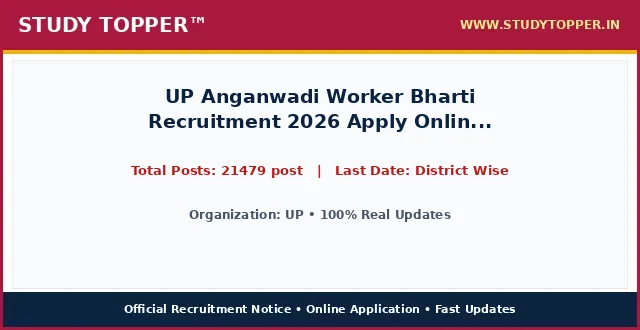
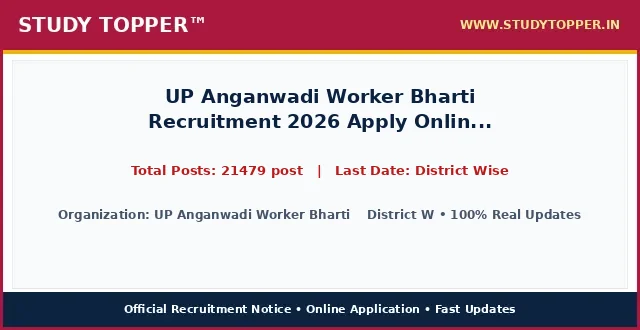
chore(lifecycle): daily auto-sort vacancies and update active dates

Changed region(s): [[0.0938, 0.6364, 0.9062, 0.6667]]

diff --git a/pages/up-anganwadi-worker.html b/pages/up-anganwadi-worker.html
@@ -987,12 +987,12 @@ ul.wp-block-latest-posts a:hover {
 <main class="site-main" id="main">
 <div class="gb-container gb-container-b39c368c">
 <h1 class="gb-headline gb-headline-e52a0102 gb-headline-text" style="font-size: 22px; font-weight: 700; color: #0000cd; text-align: left; margin: 8px 0 4px 0; line-height: 1.3; width: 100%; font-family: '-apple-system, BlinkMacSystemFont, 'Segoe UI', Roboto, 'Helvetica Neue', Arial, sans-serif', Times, serif, Hind, sans-serif;">UP Anganwadi Worker Bharti Recruitment 2026 Apply Online District Wise Vacancy Details Bareilly, Sonbhadra, Etawah, Maharajganj, Muzaffarnagar Chitrakoot, Jhansi and other Various District</h1>
-<div class="gb-container gb-container-659bd175"><p style="color: #cd0808; font-weight: 700; font-size: 15px; margin: 2px 0 7px 0; text-align: left; font-family: '-apple-system, BlinkMacSystemFont, 'Segoe UI', Roboto, 'Helvetica Neue', Arial, sans-serif', Times, serif, Hind, sans-serif;">Post Date: August 22, 2026 11:56 AM</p></div>
-<p class="gb-headline gb-headline-550ae316 short_Details gb-headline-text" style="width: 100%; max-width: 100%; font-size: 16.8px; line-height: 1.55; color: #000000; text-align: justify; text-justify: inter-word; margin: 8px 0 14px 0; display: block; font-family: '-apple-system, BlinkMacSystemFont, 'Segoe UI', Roboto, 'Helvetica Neue', Arial, sans-serif', Times, serif, Hind, sans-serif;"><strong style="color: #0000cd;">UP</strong> has officially published the recruitment notice <strong style="color: #cd0808;">UP Anganwadi Worker Bharti Recruitment 2026 Apply Online District Wise Vacancy Details Bareilly, Sonbhadra, Etawah, Maharajganj, Muzaffarnagar Chitrakoot, Jhansi and other Various District</strong> under notification number Official Advt 2026. Online applications are invited for 21479 post across multiple departments and cadre positions. Interested candidates possessing the requisite educational qualifications and falling between 18 Years to 40 Years can complete their online registration before the application deadline of District Wise. Applicants should read the eligibility criteria, category reservation rules, and exam scheme thoroughly before submitting applications.</p>
+<div class="gb-container gb-container-659bd175"><p style="color: #cd0808; font-weight: 700; font-size: 15px; margin: 2px 0 7px 0; text-align: left; font-family: '-apple-system, BlinkMacSystemFont, 'Segoe UI', Roboto, 'Helvetica Neue', Arial, sans-serif', Times, serif, Hind, sans-serif;">Post Date: August 22, 2026 01:09 PM</p></div>
+<p class="gb-headline gb-headline-550ae316 short_Details gb-headline-text" style="width: 100%; max-width: 100%; font-size: 16.8px; line-height: 1.55; color: #000000; text-align: justify; text-justify: inter-word; margin: 8px 0 14px 0; display: block; font-family: '-apple-system, BlinkMacSystemFont, 'Segoe UI', Roboto, 'Helvetica Neue', Arial, sans-serif', Times, serif, Hind, sans-serif;"><strong style="color: #0000cd;">UP Anganwadi Worker Bharti    District Wise  Details Bareilly, Sonbhadra, Etawah, Maharajganj, Muzaffarnagar Chitrakoot, Jhansi and other Various District</strong> has officially published the recruitment notice <strong style="color: #cd0808;">UP Anganwadi Worker Bharti Recruitment 2026 Apply Online District Wise Vacancy Details Bareilly, Sonbhadra, Etawah, Maharajganj, Muzaffarnagar Chitrakoot, Jhansi and other Various District</strong> under notification number Official Notification 2026. Online applications are invited for 21479 post across multiple departments and cadre positions. Interested candidates possessing the requisite educational qualifications and falling between 18 Years to 40 Years can complete their online registration before the application deadline of District Wise. Applicants should read the eligibility criteria, category reservation rules, and exam scheme thoroughly before submitting applications.</p>
 <div class="gb-container gb-container-9849916c"><div class="social-buttons-compact" style="display: flex; justify-content: flex-start; align-items: center; gap: 10px; margin: 10px 0 16px 0; width: 100%;"><a class="social-btn-compact wa" href="https://whatsapp.com/channel/0029Va9xyz" rel="noopener" style="background-color: #00d084; color: #ffffff; padding: 10px 18px; border-radius: 4px; text-decoration: none; font-weight: bold; font-size: 15.5px; display: inline-flex; align-items: center; justify-content: center; height: auto;" target="_blank">WhatsApp</a><a class="social-btn-compact tg" href="https://t.me/studytopperofficial" rel="noopener" style="background-color: #0088cc; color: #ffffff; padding: 10px 18px; border-radius: 4px; text-decoration: none; font-weight: bold; font-size: 15.5px; display: inline-flex; align-items: center; justify-content: center; height: auto;" target="_blank">Telegram</a></div></div>
 <div class="gb-container gb-container-f58e6ca1" style="border: 2px solid #5b032f; border-radius: 4px; overflow: hidden; margin: 15px 0 20px 0; background-color: #ffffff; width: 100%; box-sizing: border-box;">
 <h2 class="gb-headline gb-headline-2ca5a791 gb-headline-text" style="font-size: 16px; font-weight: 700; text-align: center; color: #ef0303; line-height: 1.3; padding: 6px 4px; margin: 0; background: #ffffff; font-family: '-apple-system, BlinkMacSystemFont, 'Segoe UI', Roboto, 'Helvetica Neue', Arial, sans-serif', Times, serif, Hind, sans-serif;">UP Anganwadi Worker Bharti Recruitment 2026 Apply Online District Wise Vacancy Details Bareilly, Sonbhadra, Etawah, Maharajganj, Muzaffarnagar Chitrakoot, Jhansi and other Various District &ndash; Latest Details &amp; Updates</h2>
-<h3 class="gb-headline gb-headline-7d5f86e8 gb-headline-text" style="font-size: 16px; font-weight: 600; text-align: center; color: #009703; line-height: 1.25; margin: 0; padding: 2px 4px 6px 4px; background: #ffffff; font-family: '-apple-system, BlinkMacSystemFont, 'Segoe UI', Roboto, 'Helvetica Neue', Arial, sans-serif', Times, serif, Hind, sans-serif;">UP : Details &amp; Summary</h3>
+<h3 class="gb-headline gb-headline-7d5f86e8 gb-headline-text" style="font-size: 16px; font-weight: 600; text-align: center; color: #009703; line-height: 1.25; margin: 0; padding: 2px 4px 6px 4px; background: #ffffff; font-family: '-apple-system, BlinkMacSystemFont, 'Segoe UI', Roboto, 'Helvetica Neue', Arial, sans-serif', Times, serif, Hind, sans-serif;">UP Anganwadi Worker Bharti    District Wise  Details Bareilly, Sonbhadra, Etawah, Maharajganj, Muzaffarnagar Chitrakoot, Jhansi and other Various District : Details &amp; Summary</h3>
 <p class="gb-headline gb-headline-79adf169 gb-headline-text" style="margin: 0 0 6px 0; font-family: '-apple-system, BlinkMacSystemFont, 'Segoe UI', Roboto, 'Helvetica Neue', Arial, sans-serif', Times, serif, Hind, sans-serif; text-align: center; font-size: 18px; font-weight: 700;"><a href="/" style="color: #0000ff; text-decoration: underline;">StudyTopper.in</a></p>
 
 <style id="st-post-boxes-responsive-css">
@@ -1047,10 +1047,10 @@ ul.wp-block-latest-posts a:hover {
 <div class="st-grid-row" style="display: flex; flex-wrap: wrap; width: 100%; border-top: 2px solid #5b032f; margin: 0; padding: 0; box-sizing: border-box;">
   <!-- Left Col: Age Limits -->
   <div class="st-col-half st-col-border-right" style="box-sizing: border-box; vertical-align: top;">
-    <div style="background-color: #046132; color: #ffffff; padding: 8px 10px; font-size: 17px; font-weight: 700; text-align: center; font-family: '-apple-system, BlinkMacSystemFont, 'Segoe UI', Roboto, 'Helvetica Neue', Arial, sans-serif', Times, serif, Hind, sans-serif;">UP : Age Limits As On 01 August 2026</div>
+    <div style="background-color: #046132; color: #ffffff; padding: 8px 10px; font-size: 17px; font-weight: 700; text-align: center; font-family: '-apple-system, BlinkMacSystemFont, 'Segoe UI', Roboto, 'Helvetica Neue', Arial, sans-serif', Times, serif, Hind, sans-serif;">UP Anganwadi Worker Bharti    District Wise  Details Bareilly, Sonbhadra, Etawah, Maharajganj, Muzaffarnagar Chitrakoot, Jhansi and other Various District : Age Limits As On 01/08/2026</div>
     <div style="padding: 12px 14px; background-color: #ffffff;">
       <ul style="padding-left: 20px; margin: 0; list-style-type: disc; text-align: left; font-size: 14pt; line-height: 1.6; font-family: '-apple-system, BlinkMacSystemFont, 'Segoe UI', Roboto, 'Helvetica Neue', Arial, sans-serif', Times, serif, Hind, sans-serif;">
-        <li><span style="font-size: 14pt;">Minimum Age : <strong>18 Years.</strong></span></li><li><span style="font-size: 14pt;">Maximum Age : <strong>35 Years.</strong></span></li>
+        <li><span style="font-size: 14pt;">Minimum Age : <strong>18 Years.</strong></span></li><li><span style="font-size: 14pt;">Maximum Age : <strong>35 Years.</strong></span></li><li><span style="font-size: 14pt;">Age Relaxation : <strong>Age Relaxation Extra as per UP Govt. Anganwadi Bharti Worker Recruitment Rules.</strong></span></li>
       </ul>
     </div>
   </div>
@@ -1070,7 +1070,19 @@ ul.wp-block-latest-posts a:hover {
 <div class="gb-container gb-container-ec1f6e4c">
 <h2 class="gb-headline gb-headline-c7683bda gb-headline-text" style="font-size: 24px; font-weight: 800; text-align: center; color: #ef0303; line-height: 1.35; margin: 20px 0 12px 0; padding: 6px 4px; font-family: '-apple-system, BlinkMacSystemFont, 'Segoe UI', Roboto, 'Helvetica Neue', Arial, sans-serif', Times, serif, Hind, sans-serif;">UP Anganwadi Worker Bharti Recruitment 2026 Apply Online District Wise Vacancy Details Bareilly, Sonbhadra, Etawah, Maharajganj, Muzaffarnagar Chitrakoot, Jhansi and other Various District : Key Overview &amp; Matrix</h2>
 <div class="gb-headline gb-headline-60ccea19 gb-headline-text">
-
+<table style="border-collapse: collapse; width: 100%; height: 150px;">
+<tbody>
+<tr style="height: 25px;">
+<td colspan="2" style="width: 50%; text-align: center; height: 25px;"><span style="background-color: #000080; color: #ffffff; font-size: 14pt;"><strong> UP Anganwadi Worker Bharti    District Wise  Details Bareilly, Sonbhadra, Etawah, Maharajganj, Muzaffarnagar Chitrakoot, Jhansi and other Various District : Category Wise Vacancy Details </strong></span></td>
+</tr>
+<tr style="height: 25px;">
+<td style="width: 50%; height: 25px; text-align: center;"><span style="font-size: 14pt;"><strong>Category / Particulars</strong></span></td>
+<td style="width: 50%; height: 25px; text-align: center;"><span style="font-size: 14pt;"><strong>Count / Status</strong></span></td>
+</tr>
+<tr><td style="text-align: center;">UP Anganwadi Worker Eligibility</td><td style="text-align: center; font-weight: normal; color: inherit;">Only for Female Candidates. Passed 10+2 Intermediate Exam in Any Recognized Board in India. Candidate must be a resident of the said Village/Ward/Nyaya Panchayat from where she will apply.</td></tr><tr><td style="text-align: center;">District Name</td><td style="text-align: center; font-weight: normal; color: inherit;">Unnao</td></tr><tr><td style="text-align: center;">Total Vacancy</td><td style="text-align: center; font-weight: bold; color: #ff0000;">326</td></tr><tr><td style="text-align: center;">Last Date</td><td style="text-align: center; font-weight: normal; color: inherit;">11/08/2026</td></tr><tr><td style="text-align: center;">Village / Ward Wise Vacancy Details</td><td style="text-align: center; font-weight: normal; color: inherit;">UP Unnao Anganwadi Online Form 2026</td></tr>
+</tbody>
+</table>
+<p>&nbsp;</p>
 <table style="border-collapse: collapse; width: 100%;">
 <tbody>
 <tr>
@@ -1079,81 +1091,9 @@ ul.wp-block-latest-posts a:hover {
 <th style="background-color: #f53c00; color: #ffffff; padding: 6px 10px; text-align: center; border: 1px solid #d35400; font-size: 15px; font-weight: 700; font-family: '-apple-system, BlinkMacSystemFont, 'Segoe UI', Roboto, 'Helvetica Neue', Arial, sans-serif', Times, serif, Hind, sans-serif;">Eligibility Criteria</th>
 </tr>
 <tr>
-<td style="padding: 8px; border: 1px solid #ddd; font-weight: bold;">Jhansi</td>
-<td style="padding: 8px; border: 1px solid #ddd; text-align: center; font-weight: bold;">223</td>
-<td style="padding: 8px; border: 1px solid #ddd;">07/09/2026 UP Jhansi Anganwadi Worker Online Form 2026</td>
-</tr><tr>
-<td style="padding: 8px; border: 1px solid #ddd; font-weight: bold;">Muzaffarnagar</td>
-<td style="padding: 8px; border: 1px solid #ddd; text-align: center; font-weight: bold;">146</td>
-<td style="padding: 8px; border: 1px solid #ddd;">02/09/2026 UP Muzaffarnagar Anganwadi Worker Online Form 2026</td>
-</tr><tr>
-<td style="padding: 8px; border: 1px solid #ddd; font-weight: bold;">Maharajganj</td>
-<td style="padding: 8px; border: 1px solid #ddd; text-align: center; font-weight: bold;">164</td>
-<td style="padding: 8px; border: 1px solid #ddd;">01/09/2026 UP Maharajganj Anganwadi Worker Online Form 2026</td>
-</tr><tr>
-<td style="padding: 8px; border: 1px solid #ddd; font-weight: bold;">Etawah</td>
-<td style="padding: 8px; border: 1px solid #ddd; text-align: center; font-weight: bold;">102</td>
-<td style="padding: 8px; border: 1px solid #ddd;">30/08/2026 UP Etawah Anganwadi Worker Online Form 2026</td>
-</tr><tr>
-<td style="padding: 8px; border: 1px solid #ddd; font-weight: bold;">Bareilly</td>
-<td style="padding: 8px; border: 1px solid #ddd; text-align: center; font-weight: bold;">174</td>
-<td style="padding: 8px; border: 1px solid #ddd;">25/08/2026 UP Bareilly Anganwadi Worker Online Form 2026</td>
-</tr><tr>
-<td style="padding: 8px; border: 1px solid #ddd; font-weight: bold;">Sonbhadra</td>
-<td style="padding: 8px; border: 1px solid #ddd; text-align: center; font-weight: bold;">201</td>
-<td style="padding: 8px; border: 1px solid #ddd;">26/08/2026 UP Sonbhadra Anganwadi Worker Online Form 2026</td>
-</tr><tr>
-<td style="padding: 8px; border: 1px solid #ddd; font-weight: bold;">Ambedkar Nagar</td>
-<td style="padding: 8px; border: 1px solid #ddd; text-align: center; font-weight: bold;">02</td>
-<td style="padding: 8px; border: 1px solid #ddd;">24/08/2026 UP Anganwadi Ambedkar Worker Online Form 2026</td>
-</tr><tr>
-<td style="padding: 8px; border: 1px solid #ddd; font-weight: bold;">Kushinagar</td>
-<td style="padding: 8px; border: 1px solid #ddd; text-align: center; font-weight: bold;">245</td>
-<td style="padding: 8px; border: 1px solid #ddd;">19/08/2026 UP Anganwadi Kushinagar Worker Online Form 2026</td>
-</tr><tr>
-<td style="padding: 8px; border: 1px solid #ddd; font-weight: bold;">Sant Kabir Nagar</td>
-<td style="padding: 8px; border: 1px solid #ddd; text-align: center; font-weight: bold;">192</td>
-<td style="padding: 8px; border: 1px solid #ddd;">20/08/2026 UP Anganwadi Sant Kabir Nagar Worker Online Form 2026</td>
-</tr><tr>
-<td style="padding: 8px; border: 1px solid #ddd; font-weight: bold;">Hapur</td>
-<td style="padding: 8px; border: 1px solid #ddd; text-align: center; font-weight: bold;">120</td>
-<td style="padding: 8px; border: 1px solid #ddd;">18/08/2026 UP Anganwadi Hapur Worker Online Form 2026</td>
-</tr><tr>
-<td style="padding: 8px; border: 1px solid #ddd; font-weight: bold;">Etah</td>
-<td style="padding: 8px; border: 1px solid #ddd; text-align: center; font-weight: bold;">133</td>
-<td style="padding: 8px; border: 1px solid #ddd;">17/08/2026 UP Anganwadi Etah Worker Online Form 2026</td>
-</tr><tr>
-<td style="padding: 8px; border: 1px solid #ddd; font-weight: bold;">Sitapur</td>
-<td style="padding: 8px; border: 1px solid #ddd; text-align: center; font-weight: bold;">365</td>
-<td style="padding: 8px; border: 1px solid #ddd;">16/08/2026 UP Anganwadi Sitapur Worker Online Form 2026</td>
-</tr><tr>
-<td style="padding: 8px; border: 1px solid #ddd; font-weight: bold;">Lakhimpur Kheri</td>
-<td style="padding: 8px; border: 1px solid #ddd; text-align: center; font-weight: bold;">419</td>
-<td style="padding: 8px; border: 1px solid #ddd;">15/08/2026 UP Anganwadi Lakhimpur Kheri Worker Online Form 2026</td>
-</tr><tr>
-<td style="padding: 8px; border: 1px solid #ddd; font-weight: bold;">Bulandshahar</td>
-<td style="padding: 8px; border: 1px solid #ddd; text-align: center; font-weight: bold;">255</td>
-<td style="padding: 8px; border: 1px solid #ddd;">14/08/2026 UP Anganwadi Bulandshahar Worker Online Form 2026</td>
-</tr><tr>
-<td style="padding: 8px; border: 1px solid #ddd; font-weight: bold;">Firozabad</td>
-<td style="padding: 8px; border: 1px solid #ddd; text-align: center; font-weight: bold;">101</td>
-<td style="padding: 8px; border: 1px solid #ddd;">13/08/2026 UP Firozabad Anganwadi Online Form 2026</td>
-</tr><tr>
-<td style="padding: 8px; border: 1px solid #ddd; font-weight: bold;">Basti</td>
-<td style="padding: 8px; border: 1px solid #ddd; text-align: center; font-weight: bold;">138</td>
-<td style="padding: 8px; border: 1px solid #ddd;">12/08/2026 UP Basti Anganwadi Online Form 2026</td>
-</tr><tr>
-<td style="padding: 8px; border: 1px solid #ddd; font-weight: bold;">Saharanpur</td>
-<td style="padding: 8px; border: 1px solid #ddd; text-align: center; font-weight: bold;">250</td>
-<td style="padding: 8px; border: 1px solid #ddd;">12/08/2026 UP Saharanpur Anganwadi Online Form 2026</td>
-</tr><tr>
-<td style="padding: 8px; border: 1px solid #ddd; font-weight: bold;">Ayodhya</td>
-<td style="padding: 8px; border: 1px solid #ddd; text-align: center; font-weight: bold;">220</td>
-<td style="padding: 8px; border: 1px solid #ddd;">11/08/2026 UP Ayodhya Anganwadi Online Form 2026</td>
-</tr><tr>
-<td style="padding: 8px; border: 1px solid #ddd; font-weight: bold;">Unnao</td>
-<td style="padding: 8px; border: 1px solid #ddd; text-align: center; font-weight: bold;">326</td>
-<td style="padding: 8px; border: 1px solid #ddd;">11/08/2026 UP Unnao Anganwadi Online Form 2026</td>
+<td style="padding: 8px; border: 1px solid #ddd; font-weight: bold;">Anganwadi Worker (Karyakatri)</td>
+<td style="padding: 8px; border: 1px solid #ddd; text-align: center; font-weight: bold;">Only for Female Candidates. Passed 10+2 Intermediate Exam in Any Recognized Board in India. Candidate must be a resident of the said Village/Ward/Nyaya Panchayat from where she will apply.</td>
+<td style="padding: 8px; border: 1px solid #ddd;"></td>
 </tr>
 </tbody>
 </table>
@@ -1165,10 +1105,10 @@ ul.wp-block-latest-posts a:hover {
 <table style="border-collapse: collapse; width: 100%;">
 <tbody>
 <tr>
-<td style="width: 100%; text-align: center;"><span style="background-color: #000080; color: #ffffff; font-size: 14pt; font-weight: bold; display: block; padding: 6px;"> How to Fill UP Online Application Form </span></td>
+<td style="width: 100%; text-align: center;"><span style="background-color: #000080; color: #ffffff; font-size: 14pt; font-weight: bold; display: block; padding: 6px;"> How to Fill UP Anganwadi Worker Bharti    District Wise  Details Bareilly, Sonbhadra, Etawah, Maharajganj, Muzaffarnagar Chitrakoot, Jhansi and other Various District Online Application Form </span></td>
 </tr>
 <tr>
-<td style="width: 100%;"><ol style="margin:0; padding-left:18px; text-align: left !important; list-style-position: outside !important"><li style="margin-bottom:6px; text-align: left !important;">Read the official recruitment notification carefully before applying.</li><li style="margin-bottom:6px; text-align: left !important;">Keep all basic documents ready: ID Proof, Address Details, Basic Details.</li><li style="margin-bottom:6px; text-align: left !important;">Ready your scanned documents like Photo, Signature, ID Proof, etc.</li><li style="margin-bottom:6px; text-align: left !important;">Click on the 'Apply Online' link given in the Important Links section below.</li><li style="margin-bottom:6px; text-align: left !important;">Fill out all the columns in the application form accurately.</li><li style="margin-bottom:6px; text-align: left !important;">Pay the required application fee if applicable.</li><li style="margin-bottom:6px; text-align: left !important;">Take a printout of the final submitted application form.</li><li style="margin-bottom:6px; text-align: left !important;">Resize candidate photograph and signature accurately using the <a href="https://indtool.in" rel="noopener" target="_blank"><strong>StudyTopper Tools</strong></a> image resizer at indtool.in.</li></ol></td>
+<td style="width: 100%;"><ol style="margin:0; padding-left:18px; text-align: left !important; list-style-position: outside !important"><li style="margin-bottom:6px; text-align: left !important;">Uttar Pradesh Govt UP Anganwadi Worker Recruitment 2026 Candidate Can Apply District Wise</li><li style="margin-bottom:6px; text-align: left !important;">Candidate Read the Notification Before Apply the Recruitment Application Form in UP Anganwadi Bharti Recruitment 2026.</li><li style="margin-bottom:6px; text-align: left !important;">Kindly Check and Collect the All Document – Eligibility, ID Proof, Address Details, Basic Details.</li><li style="margin-bottom:6px; text-align: left !important;">Kindly Ready Scan Document Related to Recruitment Form – Photo, Sign, ID Proof, Etc.</li><li style="margin-bottom:6px; text-align: left !important;">Before Submit the Application Form Must Check the Preview and All Column Carefully.</li><li style="margin-bottom:6px; text-align: left !important;">If Candidate Required to Paying the Application Fee Must Submit. If You have Not the Required Application Fees Your Form is Not Completed.</li><li style="margin-bottom:6px; text-align: left !important;">Take A Print Out of Final Submitted Form.</li><li style="margin-bottom:6px; text-align: left !important;">Resize candidate photograph and signature accurately using the <a href="https://indtool.in" rel="noopener" target="_blank"><strong>StudyTopper Tools</strong></a> image resizer at indtool.in.</li></ol></td>
 </tr>
 </tbody>
 </table>
@@ -1176,7 +1116,7 @@ ul.wp-block-latest-posts a:hover {
 <table style="border-collapse: collapse; width: 100%;">
 <tbody>
 <tr>
-<td style="width: 100%; text-align: center;"><span style="background-color: #000080; color: #ffffff; font-size: 14pt;"><strong><span style="color: #ffffff;"> UP Recruitment 2026 : Mode Of Selection </span></strong></span></td>
+<td style="width: 100%; text-align: center;"><span style="background-color: #000080; color: #ffffff; font-size: 14pt;"><strong><span style="color: #ffffff;"> UP Anganwadi Worker Bharti    District Wise  Details Bareilly, Sonbhadra, Etawah, Maharajganj, Muzaffarnagar Chitrakoot, Jhansi and other Various District Recruitment 2026 : Mode Of Selection </span></strong></span></td>
 </tr>
 <tr>
 <td style="width: 100%;">
@@ -1216,42 +1156,82 @@ ul.wp-block-latest-posts a:hover {
 
 <tr style="border-bottom: 1px solid #000000; background-color: #fff37a;">
 <td style="width: 50%; padding: 14px 16px; border-right: 1px solid #000000; text-align: center;">
-<span style="font-size: 19px; font-weight: 800; color: #000000; font-family: '-apple-system, BlinkMacSystemFont, 'Segoe UI', Roboto, 'Helvetica Neue', Arial, sans-serif', Times, serif, Hind, sans-serif;">Apply Online Link</span>
+<span style="font-size: 19px; font-weight: 800; color: #000000; font-family: '-apple-system, BlinkMacSystemFont, 'Segoe UI', Roboto, 'Helvetica Neue', Arial, sans-serif', Times, serif, Hind, sans-serif;">Android Apps</span>
 </td>
 <td style="width: 50%; padding: 14px 16px; text-align: center;">
-<span style="font-size: 20px; font-weight: 800; font-family: '-apple-system, BlinkMacSystemFont, 'Segoe UI', Roboto, 'Helvetica Neue', Arial, sans-serif', Times, serif, Hind, sans-serif;"><a href="https://upanganwadibharti.in/" aria-label="Click Here for Apply Online Link - UP Anganwadi Worker Bharti Recruitment 2026 Apply Online District Wise Vacancy Details Bareilly, Sonbhadra, Etawah, Maharajganj, Muzaffarnagar Chitrakoot, Jhansi and other Various District" rel="noopener noreferrer" style="color: #0000ef; font-weight: 800; text-decoration: none;" target="_blank">Click Here</a></span>
+<span style="font-size: 20px; font-weight: 800; font-family: '-apple-system, BlinkMacSystemFont, 'Segoe UI', Roboto, 'Helvetica Neue', Arial, sans-serif', Times, serif, Hind, sans-serif;"><a href="https://itunes.apple.com/us/app/sarkari-result/id1051363935?ls=1&mt=8" aria-label="Click Here for Android Apps - UP Anganwadi Worker Bharti Recruitment 2026 Apply Online District Wise Vacancy Details Bareilly, Sonbhadra, Etawah, Maharajganj, Muzaffarnagar Chitrakoot, Jhansi and other Various District" rel="noopener noreferrer" style="color: #0000ef; font-weight: 800; text-decoration: none;" target="_blank">Click Here</a></span>
 </td>
 </tr>
 <tr style="border-bottom: 1px solid #000000; background-color: #fff37a;">
 <td style="width: 50%; padding: 14px 16px; border-right: 1px solid #000000; text-align: center;">
-<span style="font-size: 19px; font-weight: 800; color: #000000; font-family: '-apple-system, BlinkMacSystemFont, 'Segoe UI', Roboto, 'Helvetica Neue', Arial, sans-serif', Times, serif, Hind, sans-serif;">Check Official Notification</span>
+<span style="font-size: 19px; font-weight: 800; color: #000000; font-family: '-apple-system, BlinkMacSystemFont, 'Segoe UI', Roboto, 'Helvetica Neue', Arial, sans-serif', Times, serif, Hind, sans-serif;">Apply Online</span>
 </td>
 <td style="width: 50%; padding: 14px 16px; text-align: center;">
-<span style="font-size: 20px; font-weight: 800; font-family: '-apple-system, BlinkMacSystemFont, 'Segoe UI', Roboto, 'Helvetica Neue', Arial, sans-serif', Times, serif, Hind, sans-serif;"><a href="https://upanganwadibharti.in/" aria-label="Click Here for Check Official Notification - UP Anganwadi Worker Bharti Recruitment 2026 Apply Online District Wise Vacancy Details Bareilly, Sonbhadra, Etawah, Maharajganj, Muzaffarnagar Chitrakoot, Jhansi and other Various District" rel="noopener noreferrer" style="color: #0000ef; font-weight: 800; text-decoration: none;" target="_blank">Click Here</a></span>
+<span style="font-size: 20px; font-weight: 800; font-family: '-apple-system, BlinkMacSystemFont, 'Segoe UI', Roboto, 'Helvetica Neue', Arial, sans-serif', Times, serif, Hind, sans-serif;"><a href="https://upanganwadibharti.in/workernew/users/registration.php" aria-label="Click Here for Apply Online - UP Anganwadi Worker Bharti Recruitment 2026 Apply Online District Wise Vacancy Details Bareilly, Sonbhadra, Etawah, Maharajganj, Muzaffarnagar Chitrakoot, Jhansi and other Various District" rel="noopener noreferrer" style="color: #0000ef; font-weight: 800; text-decoration: none;" target="_blank">Click Here</a></span>
 </td>
 </tr>
 <tr style="border-bottom: 1px solid #000000; background-color: #fff37a;">
 <td style="width: 50%; padding: 14px 16px; border-right: 1px solid #000000; text-align: center;">
-<span style="font-size: 19px; font-weight: 800; color: #000000; font-family: '-apple-system, BlinkMacSystemFont, 'Segoe UI', Roboto, 'Helvetica Neue', Arial, sans-serif', Times, serif, Hind, sans-serif;">Photo / Sign Resizer Tool</span>
+<span style="font-size: 19px; font-weight: 800; color: #000000; font-family: '-apple-system, BlinkMacSystemFont, 'Segoe UI', Roboto, 'Helvetica Neue', Arial, sans-serif', Times, serif, Hind, sans-serif;">Apply Online</span>
 </td>
 <td style="width: 50%; padding: 14px 16px; text-align: center;">
-<span style="font-size: 20px; font-weight: 800; font-family: '-apple-system, BlinkMacSystemFont, 'Segoe UI', Roboto, 'Helvetica Neue', Arial, sans-serif', Times, serif, Hind, sans-serif;"><a href="https://indtool.in" aria-label="Click Here for Photo / Sign Resizer Tool - UP Anganwadi Worker Bharti Recruitment 2026 Apply Online District Wise Vacancy Details Bareilly, Sonbhadra, Etawah, Maharajganj, Muzaffarnagar Chitrakoot, Jhansi and other Various District" rel="noopener noreferrer" style="color: #0000ef; font-weight: 800; text-decoration: none;" target="_blank">Click Here</a></span>
+<span style="font-size: 20px; font-weight: 800; font-family: '-apple-system, BlinkMacSystemFont, 'Segoe UI', Roboto, 'Helvetica Neue', Arial, sans-serif', Times, serif, Hind, sans-serif;"><a href="https://upanganwadibharti.in/workernew/users/login.php" aria-label="Click Here for Apply Online - UP Anganwadi Worker Bharti Recruitment 2026 Apply Online District Wise Vacancy Details Bareilly, Sonbhadra, Etawah, Maharajganj, Muzaffarnagar Chitrakoot, Jhansi and other Various District" rel="noopener noreferrer" style="color: #0000ef; font-weight: 800; text-decoration: none;" target="_blank">Click Here</a></span>
 </td>
 </tr>
 <tr style="border-bottom: 1px solid #000000; background-color: #fff37a;">
+<td style="width: 50%; padding: 14px 16px; border-right: 1px solid #000000; text-align: center;">
+<span style="font-size: 19px; font-weight: 800; color: #000000; font-family: '-apple-system, BlinkMacSystemFont, 'Segoe UI', Roboto, 'Helvetica Neue', Arial, sans-serif', Times, serif, Hind, sans-serif;">How to Fill Form (Video Hindi)</span>
+</td>
+<td style="width: 50%; padding: 14px 16px; text-align: center;">
+<span style="font-size: 20px; font-weight: 800; font-family: '-apple-system, BlinkMacSystemFont, 'Segoe UI', Roboto, 'Helvetica Neue', Arial, sans-serif', Times, serif, Hind, sans-serif;"><a href="https://youtu.be/xryTOzUU0ZI" aria-label="Click Here for How to Fill Form (Video Hindi) - UP Anganwadi Worker Bharti Recruitment 2026 Apply Online District Wise Vacancy Details Bareilly, Sonbhadra, Etawah, Maharajganj, Muzaffarnagar Chitrakoot, Jhansi and other Various District" rel="noopener noreferrer" style="color: #0000ef; font-weight: 800; text-decoration: none;" target="_blank">Click Here</a></span>
+</td>
+</tr>
+<tr style="border-bottom: 1px solid #000000; background-color: #fff37a;">
+<td style="width: 50%; padding: 14px 16px; border-right: 1px solid #000000; text-align: center;">
+<span style="font-size: 19px; font-weight: 800; color: #000000; font-family: '-apple-system, BlinkMacSystemFont, 'Segoe UI', Roboto, 'Helvetica Neue', Arial, sans-serif', Times, serif, Hind, sans-serif;">Download Notification</span>
+</td>
+<td style="width: 50%; padding: 14px 16px; text-align: center;">
+<span style="font-size: 20px; font-weight: 800; font-family: '-apple-system, BlinkMacSystemFont, 'Segoe UI', Roboto, 'Helvetica Neue', Arial, sans-serif', Times, serif, Hind, sans-serif;"><a href="https://upanganwadibharti.in/" aria-label="Click Here for Download Notification - UP Anganwadi Worker Bharti Recruitment 2026 Apply Online District Wise Vacancy Details Bareilly, Sonbhadra, Etawah, Maharajganj, Muzaffarnagar Chitrakoot, Jhansi and other Various District" rel="noopener noreferrer" style="color: #0000ef; font-weight: 800; text-decoration: none;" target="_blank">Click Here</a></span>
+</td>
+</tr>
+<tr style="border-bottom: 1px solid #000000; background-color: #fff37a;">
+<td style="width: 50%; padding: 14px 16px; border-right: 1px solid #000000; text-align: center;">
+<span style="font-size: 19px; font-weight: 800; color: #000000; font-family: '-apple-system, BlinkMacSystemFont, 'Segoe UI', Roboto, 'Helvetica Neue', Arial, sans-serif', Times, serif, Hind, sans-serif;">Join Sarkari Result Channel</span>
+</td>
+<td style="width: 50%; padding: 14px 16px; text-align: center;">
+<span style="font-size: 20px; font-weight: 800; font-family: '-apple-system, BlinkMacSystemFont, 'Segoe UI', Roboto, 'Helvetica Neue', Arial, sans-serif', Times, serif, Hind, sans-serif;"><a href="https://t.me/SarkariResult2012" aria-label="Click Here for Join Sarkari Result Channel - UP Anganwadi Worker Bharti Recruitment 2026 Apply Online District Wise Vacancy Details Bareilly, Sonbhadra, Etawah, Maharajganj, Muzaffarnagar Chitrakoot, Jhansi and other Various District" rel="noopener noreferrer" style="color: #0000ef; font-weight: 800; text-decoration: none;" target="_blank">Click Here</a></span>
+</td>
+</tr>
+<tr style="border-bottom: 1px solid #000000; background-color: #fff37a;">
+<td style="width: 50%; padding: 14px 16px; border-right: 1px solid #000000; text-align: center;">
+<span style="font-size: 19px; font-weight: 800; color: #000000; font-family: '-apple-system, BlinkMacSystemFont, 'Segoe UI', Roboto, 'Helvetica Neue', Arial, sans-serif', Times, serif, Hind, sans-serif;">Join Sarkari Result Channel</span>
+</td>
+<td style="width: 50%; padding: 14px 16px; text-align: center;">
+<span style="font-size: 20px; font-weight: 800; font-family: '-apple-system, BlinkMacSystemFont, 'Segoe UI', Roboto, 'Helvetica Neue', Arial, sans-serif', Times, serif, Hind, sans-serif;"><a href="https://whatsapp.com/channel/0029Va5IElwBlHpVBd6i5a18" aria-label="Click Here for Join Sarkari Result Channel - UP Anganwadi Worker Bharti Recruitment 2026 Apply Online District Wise Vacancy Details Bareilly, Sonbhadra, Etawah, Maharajganj, Muzaffarnagar Chitrakoot, Jhansi and other Various District" rel="noopener noreferrer" style="color: #0000ef; font-weight: 800; text-decoration: none;" target="_blank">Click Here</a></span>
+</td>
+</tr>
+<tr style="border-bottom: 1px solid #000000; background-color: #fff37a;">
+<td style="width: 50%; padding: 14px 16px; border-right: 1px solid #000000; text-align: center;">
+<span style="font-size: 19px; font-weight: 800; color: #000000; font-family: '-apple-system, BlinkMacSystemFont, 'Segoe UI', Roboto, 'Helvetica Neue', Arial, sans-serif', Times, serif, Hind, sans-serif;">Image Resizer, Age Calculator, Resume CV Maker, JPG to PDF and More Tools</span>
+</td>
+<td style="width: 50%; padding: 14px 16px; text-align: center;">
+<span style="font-size: 20px; font-weight: 800; font-family: '-apple-system, BlinkMacSystemFont, 'Segoe UI', Roboto, 'Helvetica Neue', Arial, sans-serif', Times, serif, Hind, sans-serif;"><a href="https://sarkariresultportal.com/" aria-label="Click Here for Image Resizer, Age Calculator, Resume CV Maker, JPG to PDF and More Tools - UP Anganwadi Worker Bharti Recruitment 2026 Apply Online District Wise Vacancy Details Bareilly, Sonbhadra, Etawah, Maharajganj, Muzaffarnagar Chitrakoot, Jhansi and other Various District" rel="noopener noreferrer" style="color: #0000ef; font-weight: 800; text-decoration: none;" target="_blank">Click Here</a></span>
+</td>
+</tr>
+<tr style="border-bottom: 1px solid #000000; background-color: #fff37a;">
+<td style="width: 50%; padding: 14px 16px; border-right: 1px solid #000000; text-align: center;">
+<span style="font-size: 19px; font-weight: 800; color: #000000; font-family: '-apple-system, BlinkMacSystemFont, 'Segoe UI', Roboto, 'Helvetica Neue', Arial, sans-serif', Times, serif, Hind, sans-serif;">Official Website</span>
+</td>
+<td style="width: 50%; padding: 14px 16px; text-align: center;">
+<span style="font-size: 20px; font-weight: 800; font-family: '-apple-system, BlinkMacSystemFont, 'Segoe UI', Roboto, 'Helvetica Neue', Arial, sans-serif', Times, serif, Hind, sans-serif;"><a href="https://upanganwadibharti.in/" aria-label="Click Here for Official Website - UP Anganwadi Worker Bharti Recruitment 2026 Apply Online District Wise Vacancy Details Bareilly, Sonbhadra, Etawah, Maharajganj, Muzaffarnagar Chitrakoot, Jhansi and other Various District" rel="noopener noreferrer" style="color: #0000ef; font-weight: 800; text-decoration: none;" target="_blank">Click Here</a></span>
+</td>
+</tr>
+<tr style=" background-color: #fff37a;">
 <td style="width: 50%; padding: 14px 16px; border-right: 1px solid #000000; text-align: center;">
 <span style="font-size: 19px; font-weight: 800; color: #000000; font-family: '-apple-system, BlinkMacSystemFont, 'Segoe UI', Roboto, 'Helvetica Neue', Arial, sans-serif', Times, serif, Hind, sans-serif;">Check Sarkari Result</span>
 </td>
 <td style="width: 50%; padding: 14px 16px; text-align: center;">
 <span style="font-size: 20px; font-weight: 800; font-family: '-apple-system, BlinkMacSystemFont, 'Segoe UI', Roboto, 'Helvetica Neue', Arial, sans-serif', Times, serif, Hind, sans-serif;"><a href="/" aria-label="Click Here for Check Sarkari Result - UP Anganwadi Worker Bharti Recruitment 2026 Apply Online District Wise Vacancy Details Bareilly, Sonbhadra, Etawah, Maharajganj, Muzaffarnagar Chitrakoot, Jhansi and other Various District" rel="noopener noreferrer" style="color: #0000ef; font-weight: 800; text-decoration: none;" >Click Here</a></span>
-</td>
-</tr>
-<tr style=" background-color: #fff37a;">
-<td style="width: 50%; padding: 14px 16px; border-right: 1px solid #000000; text-align: center;">
-<span style="font-size: 19px; font-weight: 800; color: #000000; font-family: '-apple-system, BlinkMacSystemFont, 'Segoe UI', Roboto, 'Helvetica Neue', Arial, sans-serif', Times, serif, Hind, sans-serif;">UP Website</span>
-</td>
-<td style="width: 50%; padding: 14px 16px; text-align: center;">
-<span style="font-size: 20px; font-weight: 800; font-family: '-apple-system, BlinkMacSystemFont, 'Segoe UI', Roboto, 'Helvetica Neue', Arial, sans-serif', Times, serif, Hind, sans-serif;"><a href="https://upanganwadibharti.in/" aria-label="Click Here for UP Website - UP Anganwadi Worker Bharti Recruitment 2026 Apply Online District Wise Vacancy Details Bareilly, Sonbhadra, Etawah, Maharajganj, Muzaffarnagar Chitrakoot, Jhansi and other Various District" rel="noopener noreferrer" style="color: #0000ef; font-weight: 800; text-decoration: none;" target="_blank">Click Here</a></span>
 </td>
 </tr>
 </tbody>
@@ -1265,7 +1245,7 @@ ul.wp-block-latest-posts a:hover {
   <div style="font-size: 14.5px; line-height: 1.65; color: #222222;">
     <p style="margin: 0 0 4px 0;"><strong style="color: #000080;">Q1. What is the last date to apply for UP Anganwadi Worker Bharti Recruitment 2026 Apply Online District Wise Vacancy Details Bareilly, Sonbhadra, Etawah, Maharajganj, Muzaffarnagar Chitrakoot, Jhansi and other Various District?</strong></p>
 <p style="margin: 0 0 16px 0; color: #333333; line-height: 1.6;">Ans. The last date for online submission of application is District Wise.</p><p style="margin: 0 0 4px 0;"><strong style="color: #000080;">Q2. What is the age limit for UP Anganwadi Worker Bharti Recruitment 2026 Apply Online District Wise Vacancy Details Bareilly, Sonbhadra, Etawah, Maharajganj, Muzaffarnagar Chitrakoot, Jhansi and other Various District?</strong></p>
-<p style="margin: 0 0 16px 0; color: #333333; line-height: 1.6;">Ans. Candidate age should generally be between 18 Years and 40 Years as on 01 August 2026. Age relaxation is applicable per rules.</p><p style="margin: 0 0 4px 0;"><strong style="color: #000080;">Q3. What is the application fee for UP Anganwadi Worker Bharti Recruitment 2026 Apply Online District Wise Vacancy Details Bareilly, Sonbhadra, Etawah, Maharajganj, Muzaffarnagar Chitrakoot, Jhansi and other Various District?</strong></p>
+<p style="margin: 0 0 16px 0; color: #333333; line-height: 1.6;">Ans. Candidate age should generally be between 18 Years and 40 Years as on 01/08/2026. Age relaxation is applicable per rules.</p><p style="margin: 0 0 4px 0;"><strong style="color: #000080;">Q3. What is the application fee for UP Anganwadi Worker Bharti Recruitment 2026 Apply Online District Wise Vacancy Details Bareilly, Sonbhadra, Etawah, Maharajganj, Muzaffarnagar Chitrakoot, Jhansi and other Various District?</strong></p>
 <p style="margin: 0 0 16px 0; color: #333333; line-height: 1.6;">Ans. Application fee varies by category (e.g., General/OBC: 0/-, SC/ST/PwD: Exempted).</p><p style="margin: 0 0 4px 0;"><strong style="color: #000080;">Q4. How many total posts are available in UP Anganwadi Worker Bharti Recruitment 2026 Apply Online District Wise Vacancy Details Bareilly, Sonbhadra, Etawah, Maharajganj, Muzaffarnagar Chitrakoot, Jhansi and other Various District?</strong></p>
 <p style="margin: 0 0 16px 0; color: #333333; line-height: 1.6;">Ans. A total of 21479 post have been officially announced for this recruitment drive.</p><p style="margin: 0 0 4px 0;"><strong style="color: #000080;">Q5. How can I apply online for UP Anganwadi Worker Bharti Recruitment 2026 Apply Online District Wise Vacancy Details Bareilly, Sonbhadra, Etawah, Maharajganj, Muzaffarnagar Chitrakoot, Jhansi and other Various District?</strong></p>
 <p style="margin: 0 0 0 0; color: #333333; line-height: 1.6;">Ans. Eligible candidates can click the 'Apply Online' link in the Important Links table, register, fill details, resize photo/signature via indtool.in, and submit before District Wise.</p>
